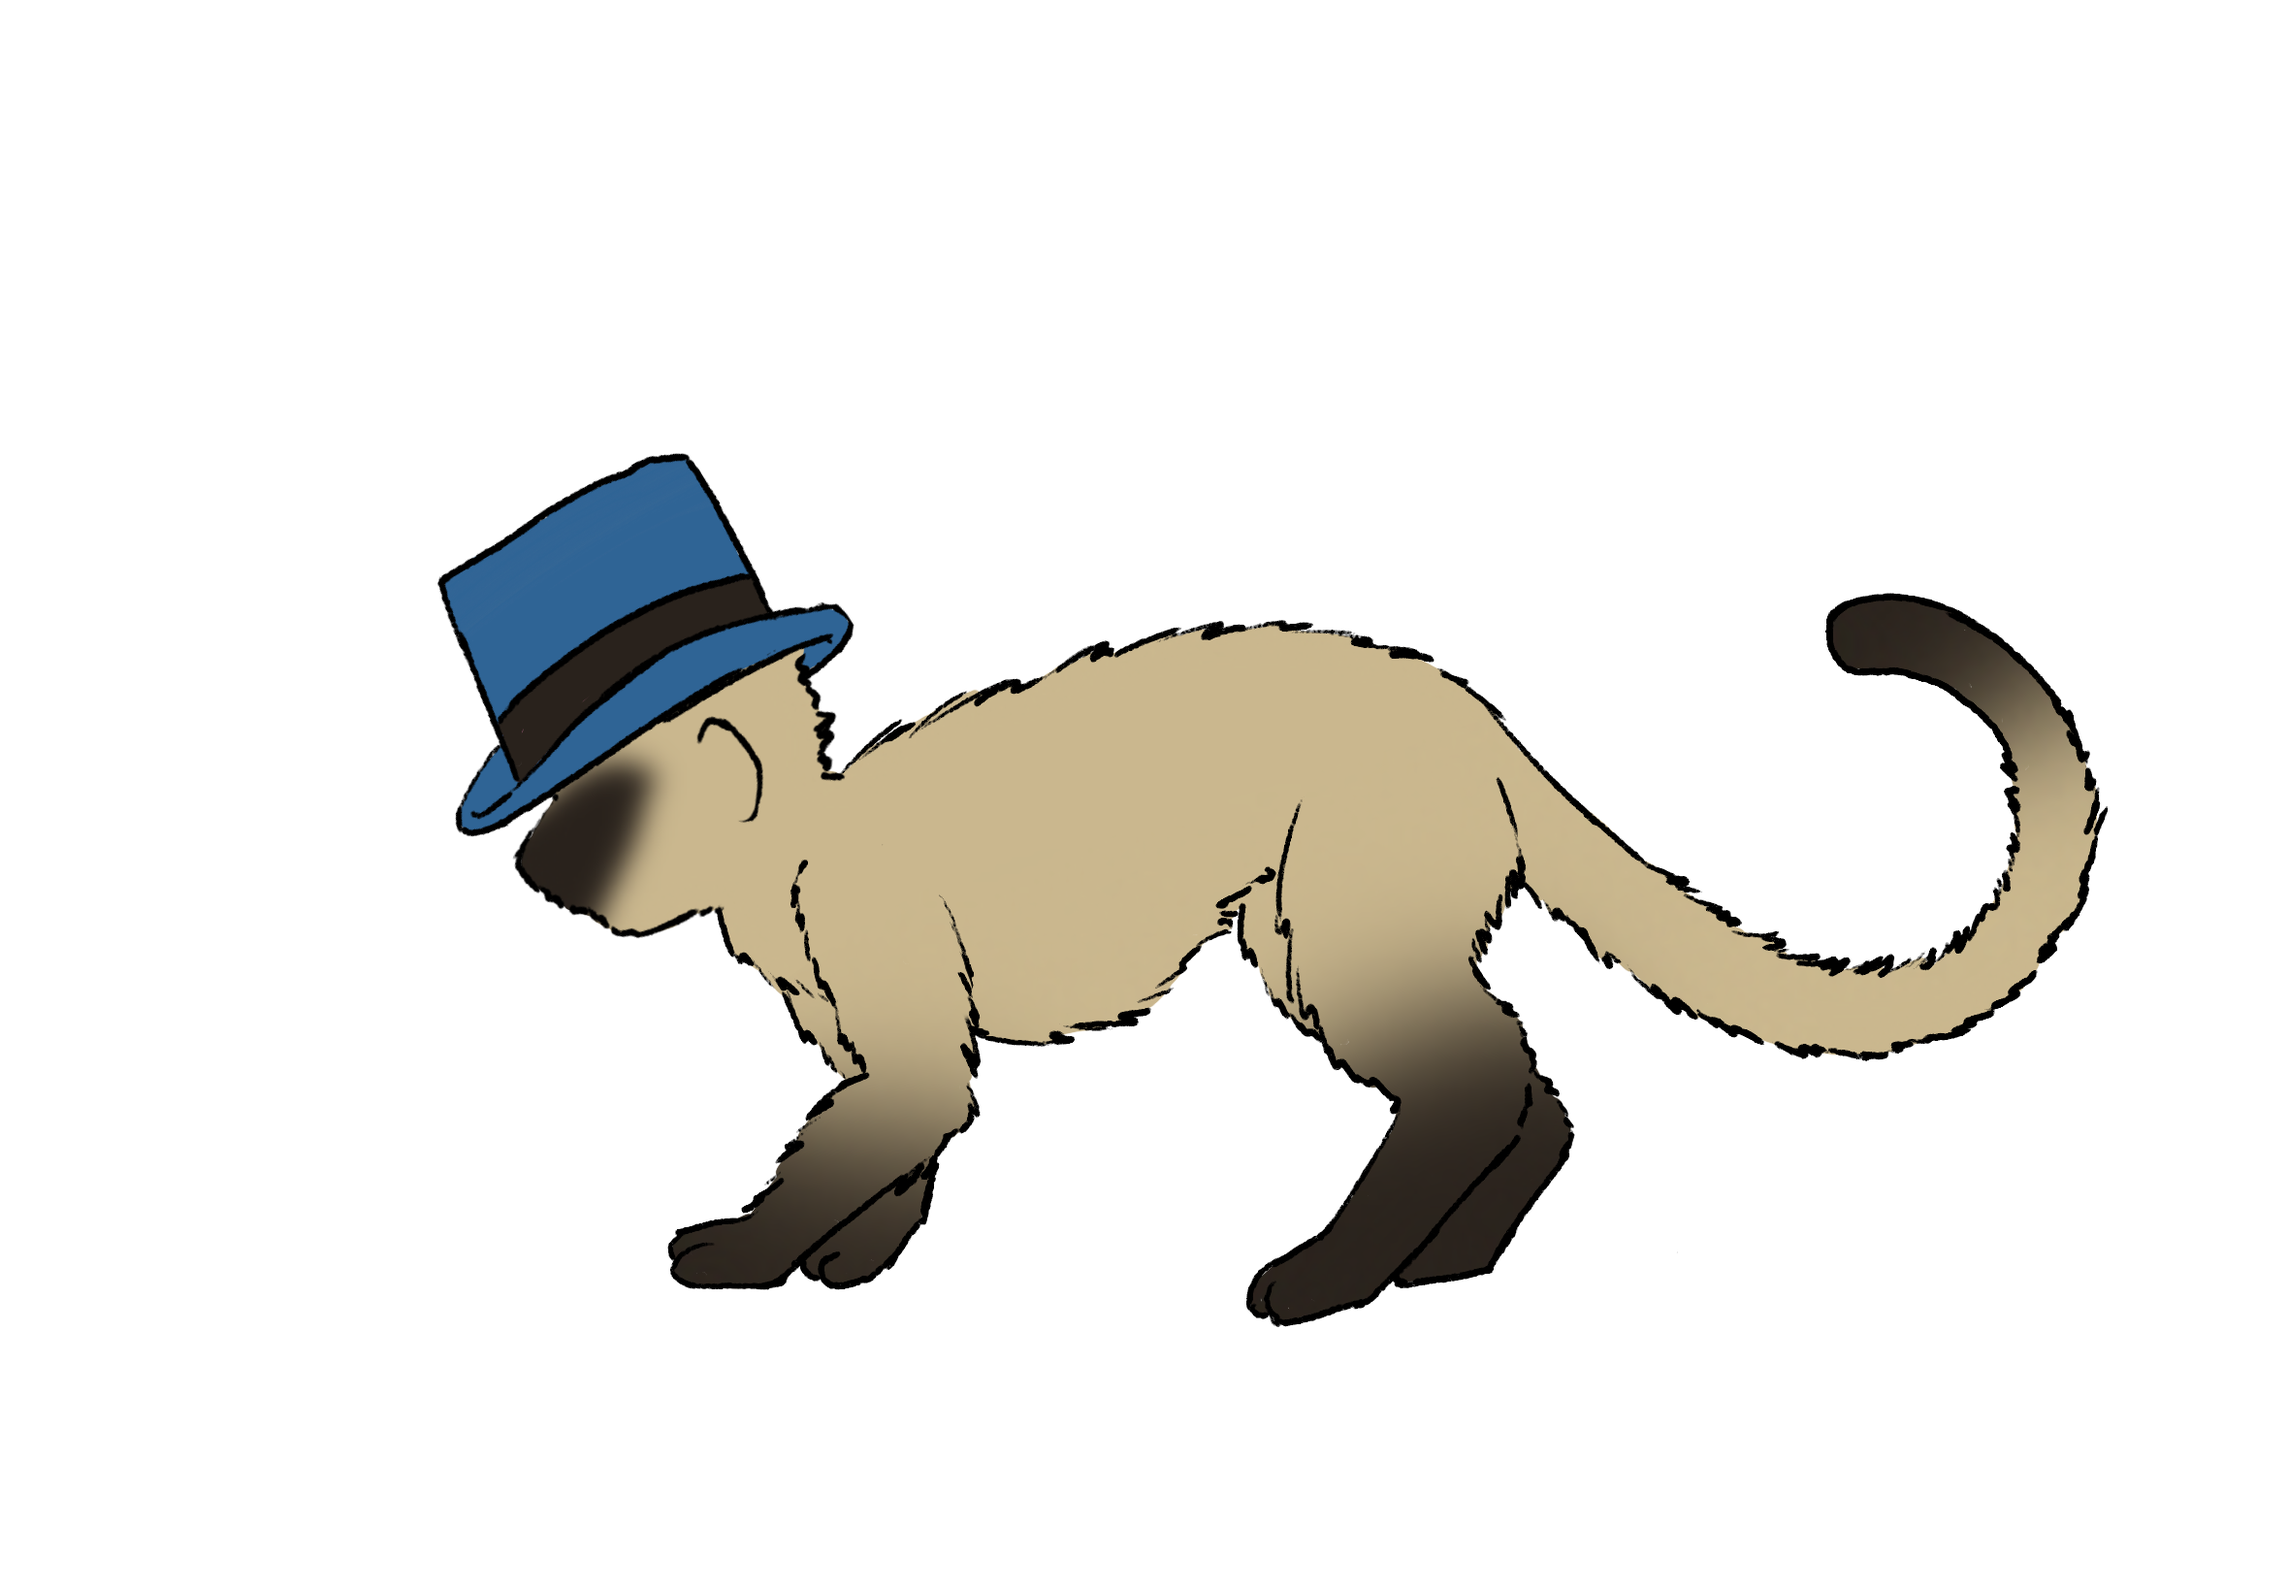
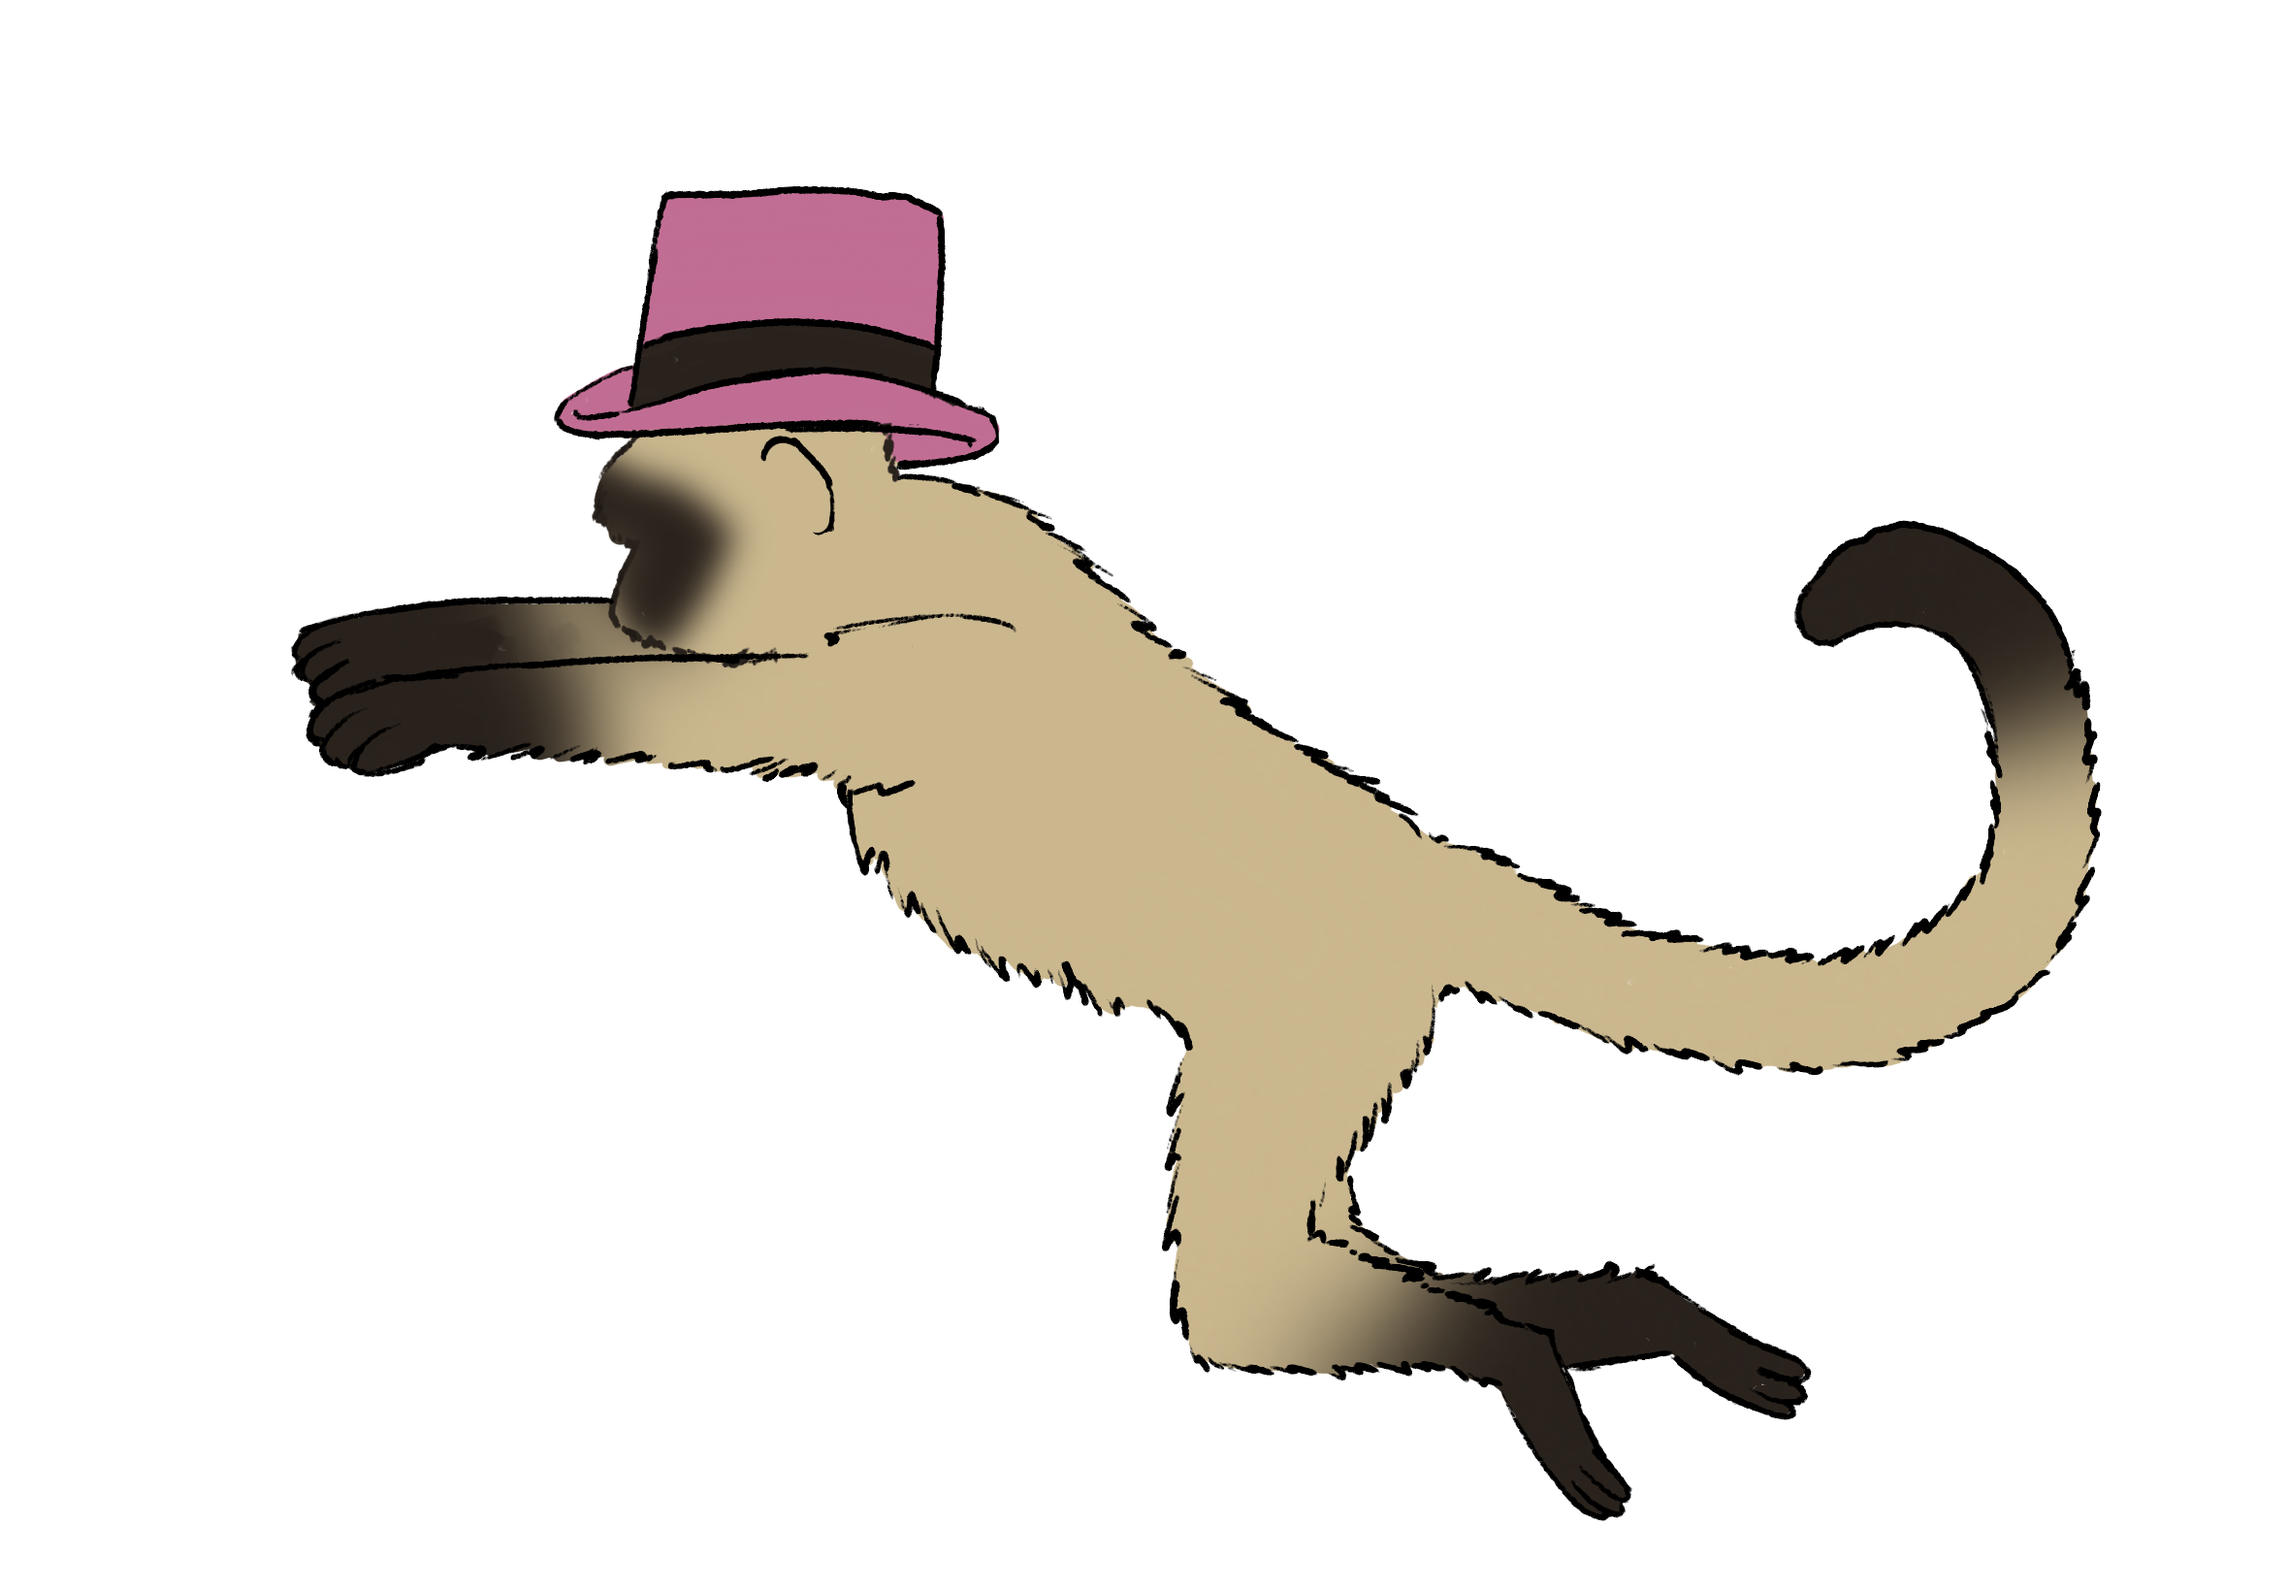
w.i.p.

Changed region(s): [[0.1237, 0.0933, 0.928, 0.964]]

diff --git a/src/minigames/animalRun/Monkey.java b/src/minigames/animalRun/Monkey.java
@@ -5,8 +5,6 @@ import controller.AbstractController;
 import minigames.animalRun.Worldobject.WorldObject;
 import org.slf4j.Logger;
 import org.slf4j.LoggerFactory;
-import sas.Picture;
-import sas.Shapes;
 
 import javax.imageio.ImageIO;
 import java.awt.*;
@@ -22,66 +20,74 @@ public class Monkey extends ScalablePicture implements WorldObject {
     /* Static Variables */
     protected static double MONKEY_MOVEMENT = 5.0;
     protected static int baseLevelX = 0;
-    private static final int IMAGE_WIDTH = 250;
-    private static final int IMAGE_HEIGHT = 200;
+    private static final int IMAGE_HEIGHT = 250;
+    private static final int IMAGE_WIDTH = (int) (IMAGE_HEIGHT * 1.44);
+
+    /* Static Methods */
+    private static BufferedImage scaleImage(BufferedImage tempImage) {
+        BufferedImage sizedImage = new BufferedImage(IMAGE_WIDTH, IMAGE_HEIGHT, BufferedImage.TYPE_INT_ARGB);
+        Graphics2D g2 = (Graphics2D) sizedImage.getGraphics();
+        Image image = tempImage.getScaledInstance(IMAGE_WIDTH, IMAGE_HEIGHT, Image.SCALE_SMOOTH);
+        g2.drawImage(image, 0, 0, IMAGE_WIDTH, IMAGE_HEIGHT, null);
+        g2.dispose();
+        return sizedImage;
+    }
 
     /* Object Variables */
     private AbstractController controller;
     private final BufferedImage[] MONKEY_IMAGES = new BufferedImage[4];
+    private final BufferedImage[] MONKEY_IMAGES_JUMP = new BufferedImage[2];
     private boolean isMonkey1;
     private boolean turnedLeft;
     private boolean onGround;
-    private int animIndex = 0;
+    private int indexImageRegular = 0;
+    private int indexImageJump = 0;
+    private MovementFunction currentMovement;
 
     /* Constructors */
     public Monkey(double xp, double yp, AbstractController controller, boolean isMonkey1) throws IOException {
         super(xp, yp, "resources/animalrun/monkey1.png");
-
         this.controller = controller;
         this.isMonkey1 = isMonkey1;
         this.turnedLeft = true;
+        this.currentMovement = new FunktionSprung(true);
 
         prepareMonkeyImages();
-        setImage(0); // setze das erste Bild als Start
+        //setImage(1,true); // setze das erste Bild als Start
         moveTo(xp, yp);
 
     }
 
     public void prepareMonkeyImages() throws IOException {
 
+        // Zuerst laden wir die regulären Bilder.
         int summand = isMonkey1 ? 0 : 4;
         BufferedImage tempImage;
         for (int i = 0; i < MONKEY_IMAGES.length; i++) {
 
             // Lade das Bild.
             tempImage = ImageIO.read(new File("resources/animalrun/monkey" + (i + 1 + summand) + ".png"));
+            System.out.println("resources/animalrun/monkey" + (i + 1 + summand) + ".png");
 
             // Passe die Größe an.
-            BufferedImage sizedImage = new BufferedImage(IMAGE_WIDTH, IMAGE_HEIGHT, BufferedImage.TYPE_INT_ARGB);
-            Graphics2D g2 = (Graphics2D) sizedImage.getGraphics();
-            Image image = tempImage.getScaledInstance(IMAGE_WIDTH, IMAGE_HEIGHT, Image.SCALE_SMOOTH);
-            g2.drawImage(image, 0, 0, IMAGE_WIDTH, IMAGE_HEIGHT, null);
-            g2.dispose();
-            MONKEY_IMAGES[i] = sizedImage;
+            MONKEY_IMAGES[i] = scaleImage(tempImage);
 
+        }
+
+        // Jetzt laden wir die Sprung-Animationen.
+        summand = isMonkey1 ? 0 : 2;
+        for (int i = 0; i < MONKEY_IMAGES_JUMP.length; i++) {
+
+            // Lade das Bild.
+            tempImage = ImageIO.read(new File("resources/animalrun/monkey" + (i + 9 + summand) + ".png"));
+            System.out.println("resources/animalrun/monkey" + (i + 9 + summand) + ".png");
+
+            // Passe die Größe an.
+            MONKEY_IMAGES_JUMP[i] = scaleImage(tempImage);
         }
     }
 
     /* Object Methods */
-    private void handleMovement() {
-
-        // TODO
-
-        /*
-         * alle möglichen Fälle
-         * - Bewegung nach rechts
-         * - Bewegung nach links
-         * - Absprung
-         * - im Flug / Fallen
-         */
-
-    }
-
     private void flip(double joystickVal) {
         if (joystickVal < 0 && !turnedLeft) {
             flipHorizontal();
@@ -99,17 +105,46 @@ public class Monkey extends ScalablePicture implements WorldObject {
     @Override
     public void doThings() {
 
+        System.out.println(getShapeX()+ ", " + getShapeY());
+
         // Get the x-position of the correct joystick.
         double joystickVal = isMonkey1 ? controller.getJoystickRechtsX() : controller.getJoystickLinksX();
         flip(joystickVal);
-        handleMovement();
+        System.out.println("joystickVal: " + joystickVal); // TODO remove
 
-        animIndex = animIndex >= MONKEY_IMAGES.length - 1
-                ? 0
-                : animIndex + 1;
+        // Does the player want to jump?
+        boolean jumpButtonPressed = isMonkey1
+                ? controller.getLinksA()
+                : controller.getRechtsA();
+
+        System.out.println("jumpButton " + jumpButtonPressed);
+
+        if (jumpButtonPressed && currentMovement instanceof FunktionAufBoden) {
+            currentMovement = new FunktionSprung(true);
+            System.out.println(currentMovement);
+        }
+
+        // Choose the right animation.
+        if (currentMovement instanceof FunktionAufBoden) {
+            setImage(indexImageRegular, false);
+            indexImageRegular = indexImageRegular >= MONKEY_IMAGES.length - 1
+                    ? 0
+                    : indexImageRegular + 1;
+        } else {
+            setImage(indexImageJump, true);
+            indexImageJump = 1;
+        }
+
+        Coordinates coords = currentMovement.computeNextVector();
+        move(coords.x, coords.y);
 
     }
 
+
+    public void signalOnGround(boolean onGround) {
+        currentMovement = new FunktionAufBoden();
+        this.onGround = onGround;
+    }
 
     @Override
     public void updatePos() {
@@ -120,21 +155,21 @@ public class Monkey extends ScalablePicture implements WorldObject {
         return onGround;
     }
 
-    public void setOnGround(boolean onGround) {
-        this.onGround = onGround;
-    }
-
     @Override
     public boolean isSollit() {
         return false;
     }
 
-    private void setImage(int index) {
-        super.setImage(MONKEY_IMAGES[index]);
+    public void setImage(int index, boolean jump) {
+        if (jump) {
+            super.setImage(MONKEY_IMAGES_JUMP[index]);
+        } else {
+            super.setImage(MONKEY_IMAGES[index]);
+        }
     }
 
     @Override
-    protected void setImage(BufferedImage image){
+    protected void setImage(BufferedImage image) {
         super.setImage(image);
     }
 
@@ -155,6 +190,11 @@ public class Monkey extends ScalablePicture implements WorldObject {
     }
 
     private class FunktionAufBoden implements MovementFunction {
+
+        private FunktionAufBoden() {
+            indexImageRegular = 0;
+        }
+
         @Override
         public Coordinates computeNextVector() {
             return new Coordinates(MONKEY_MOVEMENT * getJoystickX(), 0);
@@ -173,6 +213,7 @@ public class Monkey extends ScalablePicture implements WorldObject {
          */
         private FunktionSprung(boolean sturz) {
             this.tickCounter = sturz ? -1 : -100;
+            indexImageJump = sturz ? 1 : 0; // Wir springen direkt zum zweiten Bild.
         }
 
         @Override

diff --git a/src/minigames/animalrun/AnimalRun.java b/src/minigames/animalrun/AnimalRun.java
@@ -2,7 +2,6 @@ package minigames.animalRun;
 
 import controller.AbstractController;
 import controller.ArduinoController;
-import controller.TastaturController;
 import minigames.AbstractGame;
 import minigames.animalRun.Worldobject.Platform;
 import minigames.animalRun.Worldobject.WorldObject;
@@ -48,7 +47,6 @@ public class AnimalRun extends AbstractGame {
         try {
             monkeys[0] = new Monkey(50, 100, controller, true);
             monkeys[1] = new Monkey(150, 200, controller, false);
-            System.out.println("monkeys jetzt da"); // TODO remove
 
             summonNextRoundObjects.add(monkeys[0]);
             summonNextRoundObjects.add(monkeys[1]);
@@ -102,11 +100,11 @@ public class AnimalRun extends AbstractGame {
                     if (monkey.intersects(platform) && monkey.getShapeY() + monkey.getShapeHeight() >= platform.getShapeY()) {
 
                         // ... kann der Affe darauf laufen.
-                        monkey.setOnGround(true);
+                        monkey.signalOnGround(true);
                     }
 
                     // Der Affe ist offensichtlich in der Luft.
-                    monkey.setOnGround(false);
+                    monkey.signalOnGround(false);
                 }
             }
         }

diff --git a/src/main/BLasdatest.java b/src/main/BLasdatest.java
@@ -1,22 +1,40 @@
 package main;
 
 import common.ScalablePicture;
+import controller.AbstractController;
+import controller.TastaturController;
+import minigames.animalRun.Monkey;
 import sas.View;
+
+import java.io.IOException;
 
 public class BLasdatest {
 
-    public static void main(String[] args) {
+    public static void main(String[] args) throws IOException {
         View view = new View(800, 800);
-        ScalablePicture test = new ScalablePicture(0, 0, "resources/animalrun/monkey1.png");
-        test.scaleTo(500);
-        test.moveTo(0,0);
-        System.out.println(test.getShapeWidth() + ", " +  test.getShapeHeight());
-        for (int i = 0; i < 100; i++) {
-            test.move(10);
-            test.turn(10);
-            view.wait(20);
+        AbstractController controller = new TastaturController(view);
+
+
+        Monkey monkey = new Monkey(50, 200, controller, true);
+        view.wait(1000);
+
+        monkey.move(50,50);
+        view.wait(1000);
+
+        for (int i = 0; i < 12; i++) {
+
+            monkey.setImage(i % 4, false);
+            System.out.println(i);
+
+            view.wait(500);
 
         }
+
+//        monkey.setImage(2, false);
+
+
+
+
     }
 
 }

diff --git a/src/mastercontroler/Mastercontrol.java b/src/mastercontroler/Mastercontrol.java
@@ -8,8 +8,8 @@ import minigames.animalRun.AnimalRun;
 import sas.View;
 
 public class Mastercontrol {
-    private static final int WIDTH = 500;
-    private static final int HEIGHT = 400;
+    private static final int WIDTH = 1850;
+    private static final int HEIGHT = 630;
 
     protected AbstractController controller;
     protected View view;
